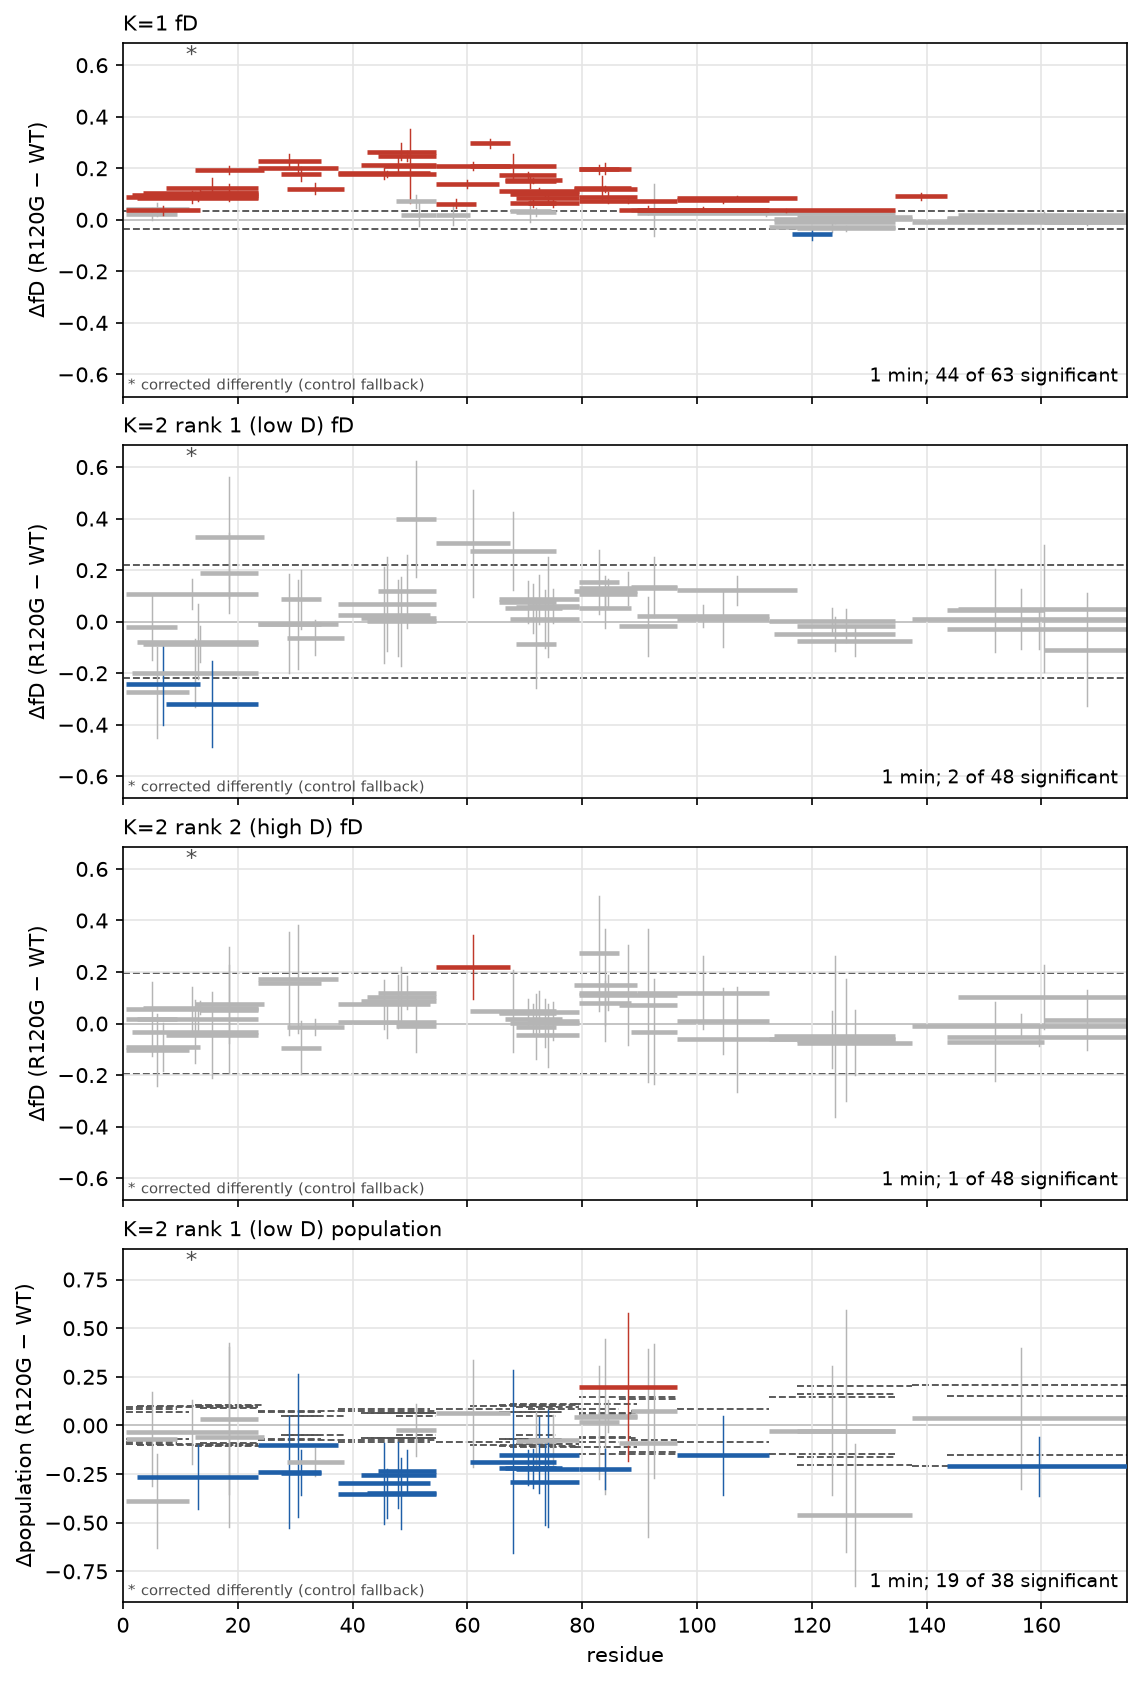
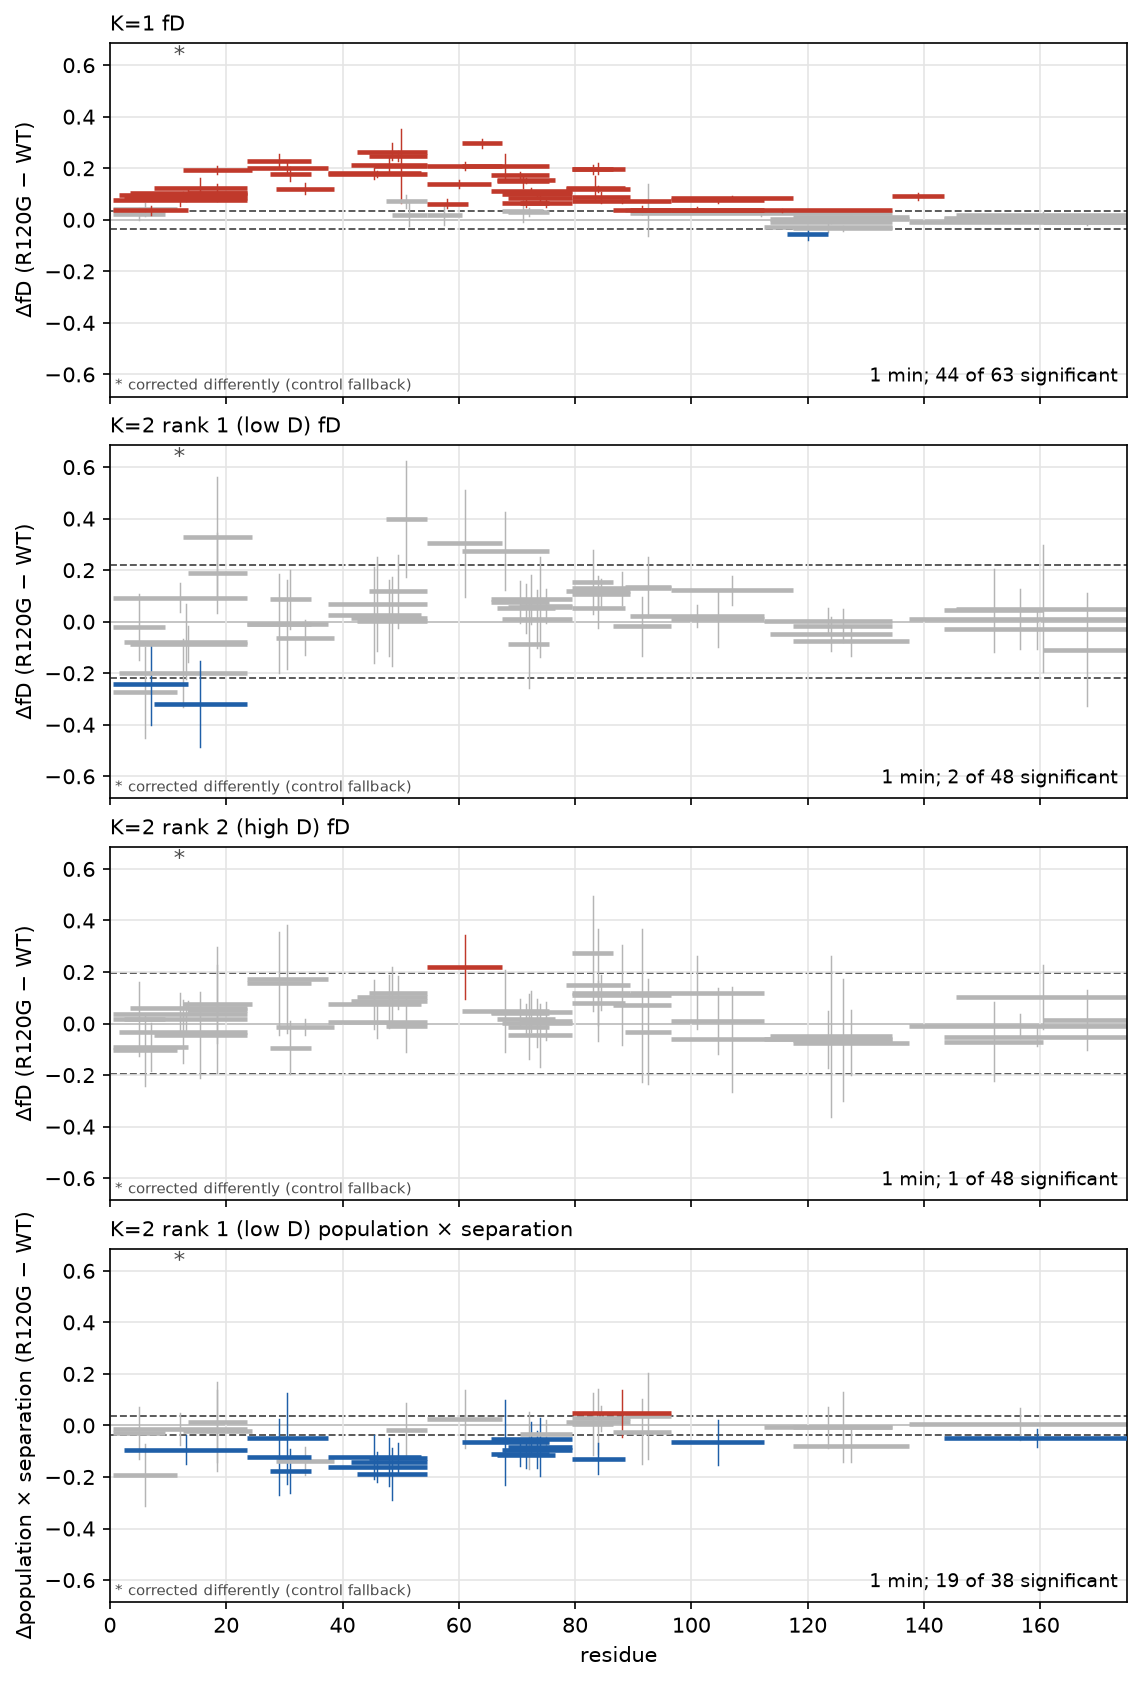
hxex check lists the output folders as information; tutorial images redrawn
hxex check now ends with an outputs block: the bundle, tables, figures and
analysis folders that exist, whether each was made from the results in the
bundle now, and which command would need --overwrite or --keep-previous (or
what [output] overwrite / keep_previous will do). An existing bundle is no
longer a problem: each command refuses by itself before doing any work, so
the tutorial's check after the run ends with ok (HISTORY 136).

The tutorial's figures are redrawn with make_tutorial.py --run (the Woods
plot's population panel in fD units). RELEASING.md: until the tutorial is
announced, a new zip replaces the one on the current release.

diff --git a/src/hxex/cli.py b/src/hxex/cli.py
@@ -334,12 +334,8 @@ def cmd_check(args) -> int:
             problems += _check_exclusions(project, SpectrumIndex.from_rows(rows), inp.format)
     if inp is not None and inp.retention_times is not None and not inp.retention_times.is_file():
         problems.append(f"input.retention_times {inp.retention_times}: no such file")
-    out = project.output
-    if (out.bundle is not None and out.bundle.exists() and not out.overwrite
-            and not out.keep_previous):
-        problems.append(f"the bundle {out.bundle} exists: 'hxex run' needs --overwrite or "
-                        "--keep-previous (output.overwrite or output.keep_previous), or "
-                        "another output.bundle")
+    for n, line in enumerate(_output_lines(project)):
+        _say(f"{'' if n else 'outputs':14s} {line}")
     if problems:
         for p in problems:
             log.error("%s", p)
@@ -347,6 +343,56 @@ def cmd_check(args) -> int:
         return EXIT_ERROR
     _say("ok")
     return 0
+
+
+def _output_lines(project) -> list[str]:
+    """What ``hxex check`` says of the project's output folders: which exist, which commands
+    would then need ``--overwrite`` or ``--keep-previous`` (or what ``[output] overwrite`` /
+    ``keep_previous`` will do), and whether each was made from the results in the bundle now.
+    Information only: each command refuses by itself, before doing any work."""
+    from .io import holds_output, made_from
+    from .io.bundle import analysis_folder_name, analysis_states, bundle_manifest
+
+    out = project.output
+    bundle = out.bundle
+    if bundle is None:
+        return ["no [output] bundle"]
+    flags = ("[output] overwrite replaces it" if out.overwrite else
+             "[output] keep_previous moves it to NAME.N first" if out.keep_previous else "")
+
+    def needs(command: str) -> str:
+        verb = "need" if " and " in command else "needs"
+        return flags or f"{command} {verb} --overwrite or --keep-previous"
+
+    created = (bundle_manifest(bundle) or {}).get("created", "") if bundle.exists() else ""
+    lines = []
+    if bundle.exists():
+        lines.append(f"{bundle.name} exists: {needs('hxex run')}")
+    tables = _beside(bundle, out.tables, "_tables") if out.tables is not False else None
+    for folder, command in ((tables, "hxex run and hxex report"),
+                            (bundle.with_name(bundle.name + "_figures"),
+                             "hxex report --figures")):
+        if folder is None or not holds_output(folder):
+            continue
+        stamp = (made_from(folder) or {}).get("")
+        state = ("left from a bundle that is gone" if not bundle.exists()
+                 else "made from results not recorded" if not stamp
+                 else "up to date" if stamp == created else "made from earlier results")
+        lines.append(f"{folder.name}: {state}; {needs(command)}")
+    analysis = project.analysis  # none: hxex analyse uses the default settings
+    wanted = (Path(analysis.out) if analysis is not None and analysis.out else
+              bundle.with_name(analysis_folder_name(
+                  bundle.name, analysis.reference if analysis is not None else None)))
+    folders = dict(analysis_states(bundle))
+    if wanted is not None and wanted not in folders and holds_output(wanted):
+        folders[wanted] = ""
+    for folder, state in sorted(folders.items()):
+        text = ("up to date" if state is None else "made from earlier results" if state
+                else "made from results not recorded")
+        if wanted is not None and folder.resolve() == wanted.resolve():
+            text += f"; {needs('hxex analyse')}"
+        lines.append(f"{folder.name}: {text}")
+    return lines or [f"none yet: hxex run writes {bundle.name}"]
 
 
 def _has_rules(project) -> bool:

diff --git a/tests/test_cli.py b/tests/test_cli.py
@@ -292,12 +292,23 @@ def test_check_shows_what_would_be_read(tmp_path, capsys):
     out = capsys.readouterr().out
     assert "targets        1 from" in out and "6 scans; 1 of 1 targets have scans" in out
     assert out.strip().endswith("ok")
-    (tmp_path / "out").mkdir()  # an existing bundle is reported
-    assert cli.main(["check", str(path)]) == 1
-    err = capsys.readouterr().err
-    assert "the bundle" in err and "--keep-previous" in err
+    assert "outputs        none yet: hxex run writes out" in out
+    # existing results are information, not problems: each command refuses by itself
+    path.write_text(path.read_text() + '\n[analysis]\nks = [1]\noverlay = ["avg"]\n')
+    assert cli.main(["-q", "run", str(path)]) == 0
+    assert cli.main(["-q", "analyse", str(path)]) == 0
+    capsys.readouterr()
+    assert cli.main(["check", str(path)]) == 0
+    out = capsys.readouterr().out
+    assert "outputs        out exists: hxex run needs --overwrite or --keep-previous" in out
+    assert ("out_tables: up to date; hxex run and hxex report need --overwrite or "
+            "--keep-previous") in out
+    assert "out_analysis: up to date; hxex analyse needs --overwrite" in out
+    assert out.strip().endswith("ok")
     path = mzml_project(tmp_path, output="keep_previous = true")
     assert cli.main(["check", str(path)]) == 0
+    assert "out exists: [output] keep_previous moves it to NAME.N first" in \
+        capsys.readouterr().out
 
 
 def test_check_names_every_problem_after_the_summary(tmp_path, capsys):
@@ -324,7 +335,7 @@ def test_check_names_every_problem_after_the_summary(tmp_path, capsys):
     out, err = capsys.readouterr()
     assert "format         specexport" in out
     assert "nowhere: no such directory" in err and "rt.csv: no such file" in err
-    assert "the bundle" in err and "3 problem(s)" in err
+    assert "2 problem(s)" in err and "outputs        out exists" in out
 
 
 def test_run_info_and_report(tmp_path, capsys):

diff --git a/docs/HISTORY.md b/docs/HISTORY.md
@@ -3493,8 +3493,9 @@ CSVs or mzML if wanted.
     writes and makes out of date, deleting only `results` is not a fresh start), first-project,
     project-file, tutorial (`--overwrite` on the second and third `report --figures`, and how to
     start the tutorial again); README; BUNDLE.md; template comments. The tutorial notebook
-    changed (two commands): the download needs a new zip (tag tutorial-data-2) and the page's
-    link updated (owner publishes).
+    changed (two commands): the download needs a new zip. Owner: replace the zip on
+    tutorial-data-1 (not yet announced, so no link has to stay as it was); a new tag only once
+    the tutorial is announced (docs/RELEASING.md, "The tutorial data").
 
 135. **The Woods plot draws a population scaled by its separation (owner, 2026-10-21).** Owner:
     on the tutorial data's K=2 population Woods panel the dashed lines moved from peptide to
@@ -3513,3 +3514,12 @@ CSVs or mzML if wanted.
     range and is labelled "Δpopulation × separation". Guide outputs.md "Reading the Woods
     plot" describes the method; tutorial text updated. The per-residue population figure is
     unchanged. `docs/images/tutorial_woods.png` needs redrawing (`make_tutorial.py --run`).
+
+136. **`hxex check` lists the output folders as information (owner, 2026-10-21).** In the
+    tutorial's step 9 (`check` after the run) the existing bundle was "1 problem(s) found",
+    though it only concerns a new `hxex run`. Owner chose (over a `check --for report` flag) an
+    `outputs` block of plain lines: the bundle, tables, figures, and analysis folders that
+    exist, whether each was made from the results in the bundle now (or is left from a bundle
+    that is gone), and which command would need `--overwrite` or `--keep-previous` (or what
+    `[output] overwrite` / `keep_previous` will do). Not problems: each command refuses by
+    itself before doing any work, and the check ends with `ok` unless something else is wrong.

diff --git a/docs/RELEASING.md b/docs/RELEASING.md
@@ -46,9 +46,15 @@ publishes to PyPI only for tags starting with `v`.
    extra): `python docs/tutorial/make_tutorial.py SPECEXPORT_DIR OUT_DIR --run`, where
    `SPECEXPORT_DIR` holds the published B5 SpecExport data. This also redraws the page's
    figures in `docs/images/tutorial_*.png`; commit them if they changed.
-2. On GitHub, **Releases, Draft a new release**: create the tag `tutorial-data-N` (the next
-   number) on `main`, attach `OUT_DIR/hxex_b5_tutorial.zip`, mark it as a pre-release so it is
-   not shown as the latest *hxex* release, and publish.
-3. If N changed, update the download link in `docs/guide/tutorial.md`.
+2. Until the tutorial is announced (or cited), replace the zip on the current release: on
+   GitHub, **Releases**, edit `tutorial-data-N`, delete its `hxex_b5_tutorial.zip`, attach
+   the new `OUT_DIR/hxex_b5_tutorial.zip` under the same name, and save. The tag and the
+   page's link stay as they are.
+3. Once it has been announced, never change what a published link downloads: **Releases,
+   Draft a new release**, create the tag `tutorial-data-N` (the next number) on `main`,
+   attach the zip, mark it as a pre-release so it is not shown as the latest *hxex* release,
+   publish, and update the download link in `docs/guide/tutorial.md`.
+4. If the zip's size changed noticeably, update the size the page gives (`39 MB`).
 
 A new zip is needed only when the notebook, its README, or its licence change: the data do not.
+Status: `tutorial-data-1`, not yet announced (owner, 2026-10-21).

diff --git a/docs/guide/outputs.md b/docs/guide/outputs.md
@@ -92,6 +92,11 @@ hxex report hxex.toml --figures --overwrite
 hxex analyse hxex.toml --overwrite
 ```
 
+`hxex check hxex.toml` lists these folders under `outputs`: which exist, whether each was made
+from the results in the bundle now, and which command would need `--overwrite` or
+`--keep-previous`. They are information, not problems: the check still ends with `ok`, since each
+command stops by itself, before doing any work.
+
 Deleting only the `results` folder does not start afresh: its tables, figures, and analysis
 folders stay beside it, and the next `hxex run` stops at the tables folder. To start afresh,
 delete every folder whose name starts with `results`, or use `--overwrite` or
